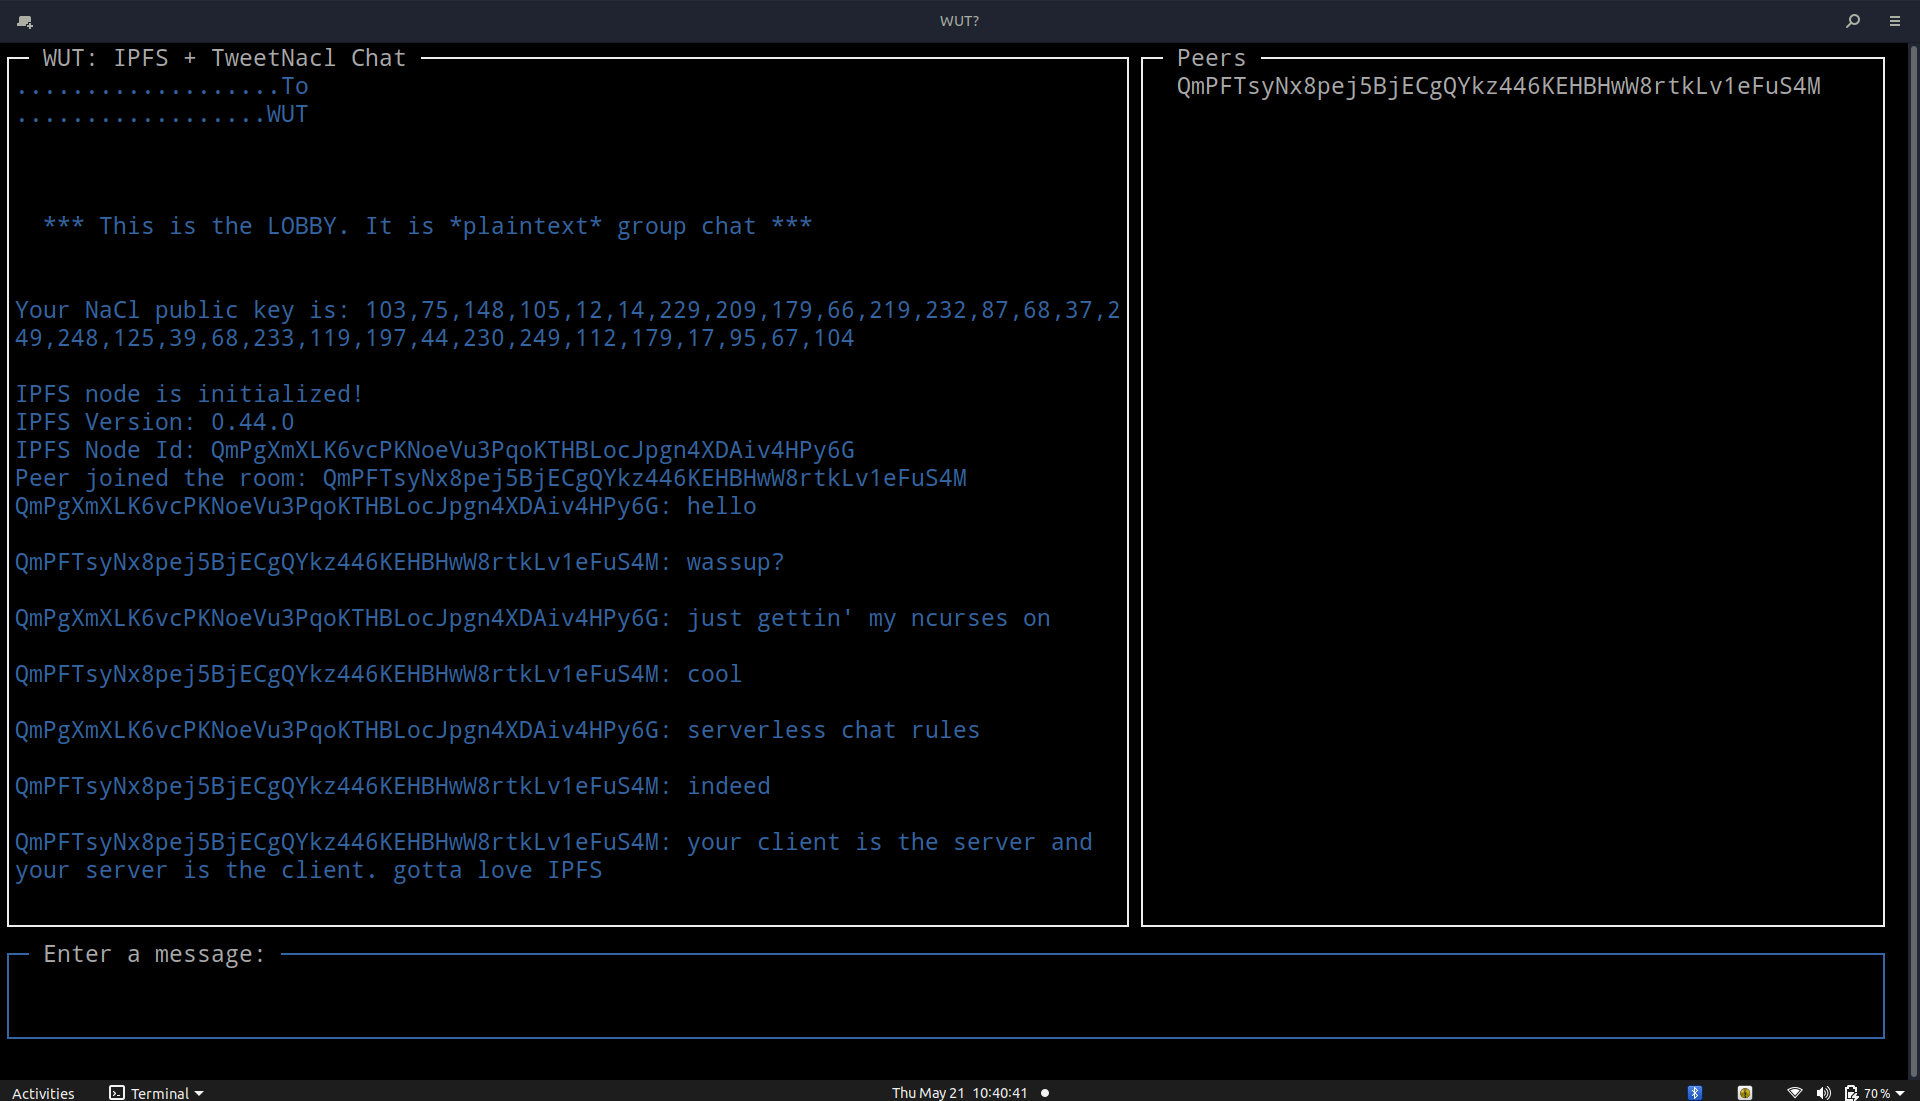
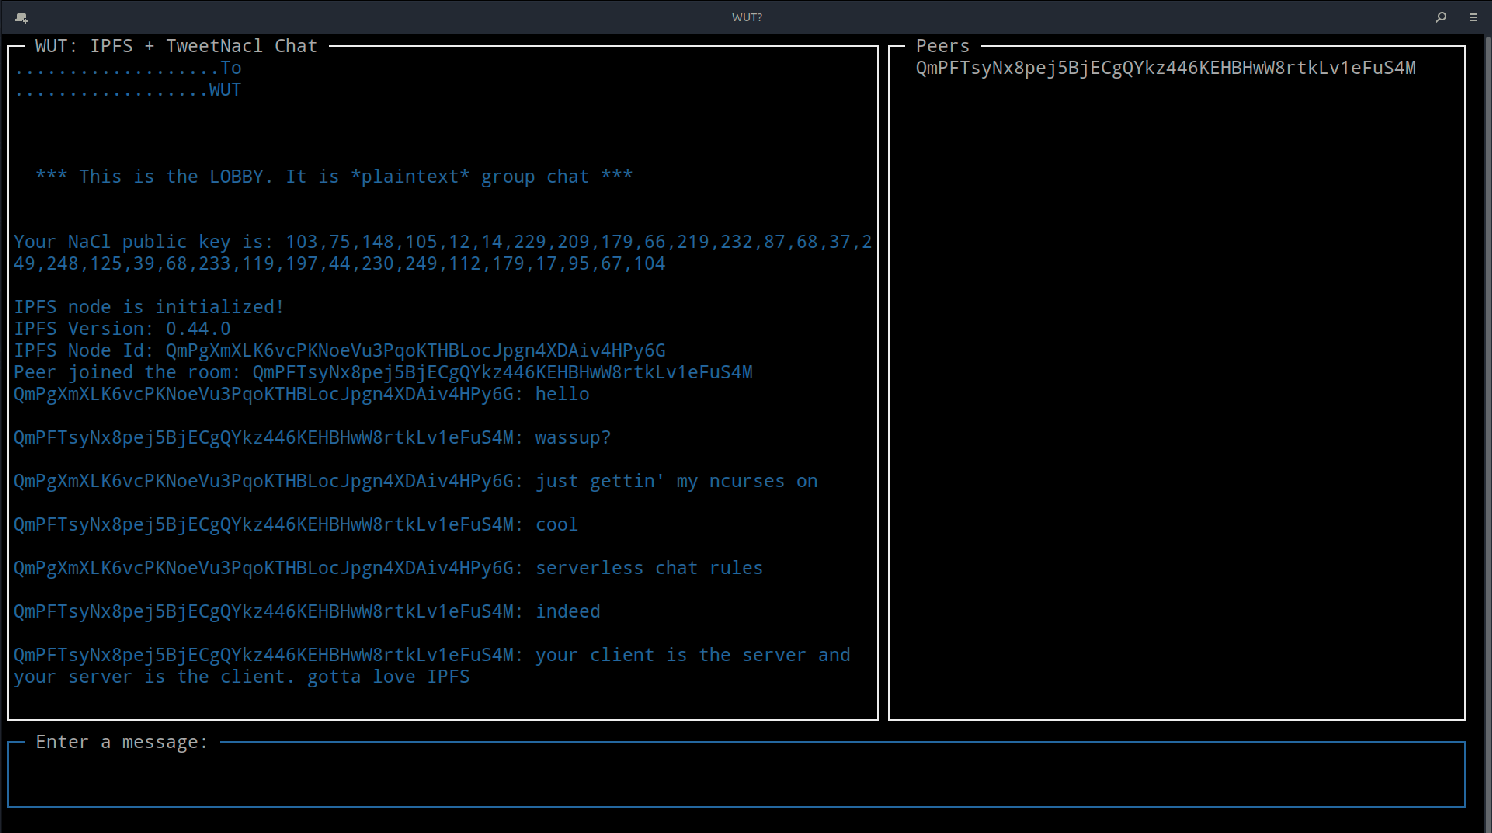
seperate out ui into lib

Changed region(s): [[0.0, 0.0, 1.0, 1.0]]

diff --git a/main.js b/main.js
@@ -13,14 +13,18 @@ const Room = require('ipfs-pubsub-room');
 const { v4: uuidv4 } = require('uuid');
 
 const { box, secretbox, randomBytes } = require('tweetnacl');
-const  {
+const {
   decodeUTF8,
   encodeUTF8,
   encodeBase64,
   decodeBase64
 } = require('tweetnacl-util');
 
+const { e2eUI } = require('./lib/ui.js');
+
 const topic = '__wut__chat__';
+
+const e2eMessages = {};
 
 const uiConfiguration = {
   style: {
@@ -187,23 +191,19 @@ async function main () {
 
     // TODO: handle control-a, -x, etc
 
-    // output.log(key);
     switch (key.name) {
     case TAB:
       peersWrapper.focus();
       return;
     case RETURN:
       let msg = input.getValue();
-
       let comm = whichCommand(msg);
-
       if (comm) {
         commands[comm](msg, output);
         return;
       }
 
       room.broadcast(msg);
-      // output.log(msg);
       screen.render();
       input.clearValue();
       break;
@@ -230,14 +230,15 @@ async function main () {
   screen.append(output);
   screen.render();
 
-  output.log('................Welcome');
+  output.log('................... Welcome ...............');
 
-  output.log('...................To');
+  output.log('................... To ....................');
 
-  output.log('..................WUT\n');
+  output.log('................... WUT ...................\n');
 
   output.log('\n\n  *** This is the LOBBY. It is *plaintext* group chat ***  \n\n');
 
+  // TODO: Display public key as QR CODE
   output.log(`Your NaCl public key is: ${configuration.keyPair.publicKey}\n`);
   input.focus();
 
@@ -251,17 +252,28 @@ async function main () {
 
   room.on('peer joined', (peer) => {
     output.log(`Peer joined the room: ${peer}`);
+    if (peer == nodeId.id) {
+      if (!configuration.handle) {
+        // set default for now
+        configuration.handle = nodeId.id;
+      }
+      // Its YOU!
+      broadcastProfile();
+    }
   });
 
   room.on('peer left', (peer) => {
     output.log(`Peer left: ${peer}`);
   });
 
+  const DIRECT_MSG = 'dm';
+  const PROFILE_MSG = 'profile';
+
   room.on('message', (message) => {
     try {
       let msg = JSON.parse(message.data);
       if (msg.messageType) {
-        if (msg.messageType == 'profile') {
+        if (msg.messageType == PROFILE_MSG) {
           // update peerprofile:
           configuration.peerProfiles[message.from] = {
             id: message.from,
@@ -270,6 +282,8 @@ async function main () {
             publicKey: msg.publicKey,
           };
           return output.log(`*** Profile broadcast: ${message.from} is now ${msg.handle}`);
+        } else if (msg.messageType == DIRECT_MSG) {
+          handleDirectMessage(message.from, msg);
         }
       }
     } catch (ex) {}
@@ -281,6 +295,64 @@ async function main () {
 
     return output.log(`${message.from}: ${message.data}`);
   });
+
+  const handleDirectMessage = (fromCID, msg) => {
+    // Check for existing e2eUI
+    let ui;
+
+    try {
+      ui = e2eMessages[fromCID].ui;
+    } catch(ex) {
+      // establish the UI, accept first message
+      // TODO: whitelisting of publicKeys
+      ui = e2eUI(screen, fromCID);
+      e2eMessages[fromCID] = {ui: ui};
+    }
+
+    // Make sure we have the from PublicKey!
+    let  pubKey;
+
+    try {
+      pubKey = configuration['peerProfiles']['publicKey'];
+    } catch (ex) {
+      // We do not have the publickey for this peer!?
+      ui.log(`Cannot decrypt messages from ${msg.handle}`);
+      return;
+    }
+
+    // Decrypt `msg.content` with pubKey, msg.nonce
+    try {
+      const plaintext = box.open(
+        msg.content,
+        msg.nonce,
+        pubKey,
+        configuration.keyPair.privateKey
+      );
+      ui.log(`${msg.handle}: ${plaintext}`);
+    } catch (ex) {
+      ui.log(`***`);
+      ui.log(`Cannot decrypt messages from ${msg.handle}`);
+      ui.log(`${ex}`);
+      ui.log(`***`);
+      return;
+    }
+  };
+
+  const createDirectMessage = (profile, msg) => {
+    // check if we have a UI for the DM or create one
+
+    // a DM will look like:
+    // {
+    //   handle: <handle>,
+    //   toCID: <cid>,
+    //   fromCID: <cid>,
+    //   fromHandle: <handle>,
+    //   nonce: <nonce>,
+    //   content: <encrypted data>,
+    //   authorPubKey: <pubKey>,
+    // }
+
+  };
 
   const broadcastProfile = (cid) => {
     let profile = JSON.stringify({
@@ -314,16 +386,9 @@ async function main () {
     }
   }, 7000);
 
-  function invitePeerToPrivateRoom(peerId) {
-    // Invite a peer to a private, encrypted chat
-
-  }
-
   // TODO: add /help function
 
   // TODO: add /peer find <name> / <cid>
-
-  // TODO add /peer chat <name> / <cid>
 
   const whichCommand = (input) => {
     // output.log(`**** INPUT: ${input}`);
@@ -341,10 +406,10 @@ async function main () {
     switch (comm) {
     case '/handle':
       return 'handle';
-      break;
     case '/peer':
       return 'peer';
-      break;
+    case '/e2e':
+      return 'e2e';
     default:
       return null;
     }
@@ -358,6 +423,7 @@ async function main () {
       return;
     }
 
+    // TODO: Do not allow duplicate handles!
     configuration.handle = data[1];
     // output.log(`*** your /handle is now ${data[1]}`);
     input.clearValue();
@@ -391,9 +457,46 @@ async function main () {
     input.clearValue();
   };
 
+  const e2e = (data) => {
+    // get the peer
+    // use room.sendTo(cid, msg) to communicate
+    // use peer CID as chatSession property in order to route DMs to correct e2eUI
+    // `q` closes the chat window
+    data = data.split(" ");
+    if (data.length != 2) {
+      output.log(`*** ERR: invalid input for /e2e: ${data}`);
+      input.clearValue();
+      return;
+    }
+
+    const getProfile = (id) => {
+      let profile;
+      for (let idx in configuration.peerProfiles) {
+        if (idx == id) {
+          return configuration.peerProfiles[idx];
+        }
+        if (idx == configuration.peerProfiles[idx].handle) {
+          return configuration.peerProfiles[idx];
+        }
+        return null;
+      }
+    };
+
+    const profile = getProfile(data[1]);
+    if (!profile) {
+      return output.log(`*** Error; cannot get profile for ${data[1]}`);
+    }
+    const ui = e2eUI(screen);
+    e2eMessages[profile.cid] = {ui: ui};
+    // TODO: make sure ui has reference to input and output
+
+
+  };
+
   const commands = {
     handle: handle,
     peer: peer,
+    e2e: e2e,
   };
 
 }

diff --git a/lib/ui.js b/lib/ui.js
@@ -1,0 +1,93 @@
+const blessed = require('blessed');
+
+const e2eUI = (parent, name) => {
+  if (!parent && !name) {
+    throw new Error('Parent node & name required');
+  }
+
+  const wrapper = blessed.Box({
+    label: ' ...DM... ',
+    border: {
+      type: 'line'
+    },
+    name: name,
+    parent: parent,
+    top: '25%',
+    left: '25%',
+    width: '50%',
+    height: '60%',
+    style: {
+      fg: 'blue',
+      bg: null,
+      border: {
+        fg: '#f0f0f0'
+      },
+      focus: {
+        border: {
+          fg: 'blue',
+        }
+      }
+    }
+  });
+
+  const input = blessed.Textbox({
+    label: ' Enter a message: ',
+    parent: wrapper,
+    top: '80%',
+    left: 0,
+    width: '99.9%',
+    height: 4,
+    tags: true,
+    border: {
+      type: 'line'
+    },
+    scrollbar: false,
+    style: {
+      fg: 'blue',
+      bg: null,
+      border: {
+        fg: '#f0f0f0',
+        bg: null,
+      },
+      focus: {
+        border: {
+          fg: 'blue',
+          bg: null,
+        }
+      },
+    }
+  });
+
+  let output = blessed.Log({
+    name: name,
+    parent: wrapper,
+    scrollable: true,
+    label: ' ..initializing... ',
+    top: '25%',
+    left: '25%',
+    width: '50%',
+    height: '60%',
+    tags: true,
+    border: {
+      type: 'line'
+    },
+    style: {
+      fg: 'blue',
+      bg: null,
+      border: {
+        fg: 'green'
+      }
+    }
+  });
+
+  return {
+    wrapper: wrapper,
+    input: input,
+    output: output,
+    name: name
+  };
+};
+
+module.exports = {
+  e2eUI: e2eUI,
+};
